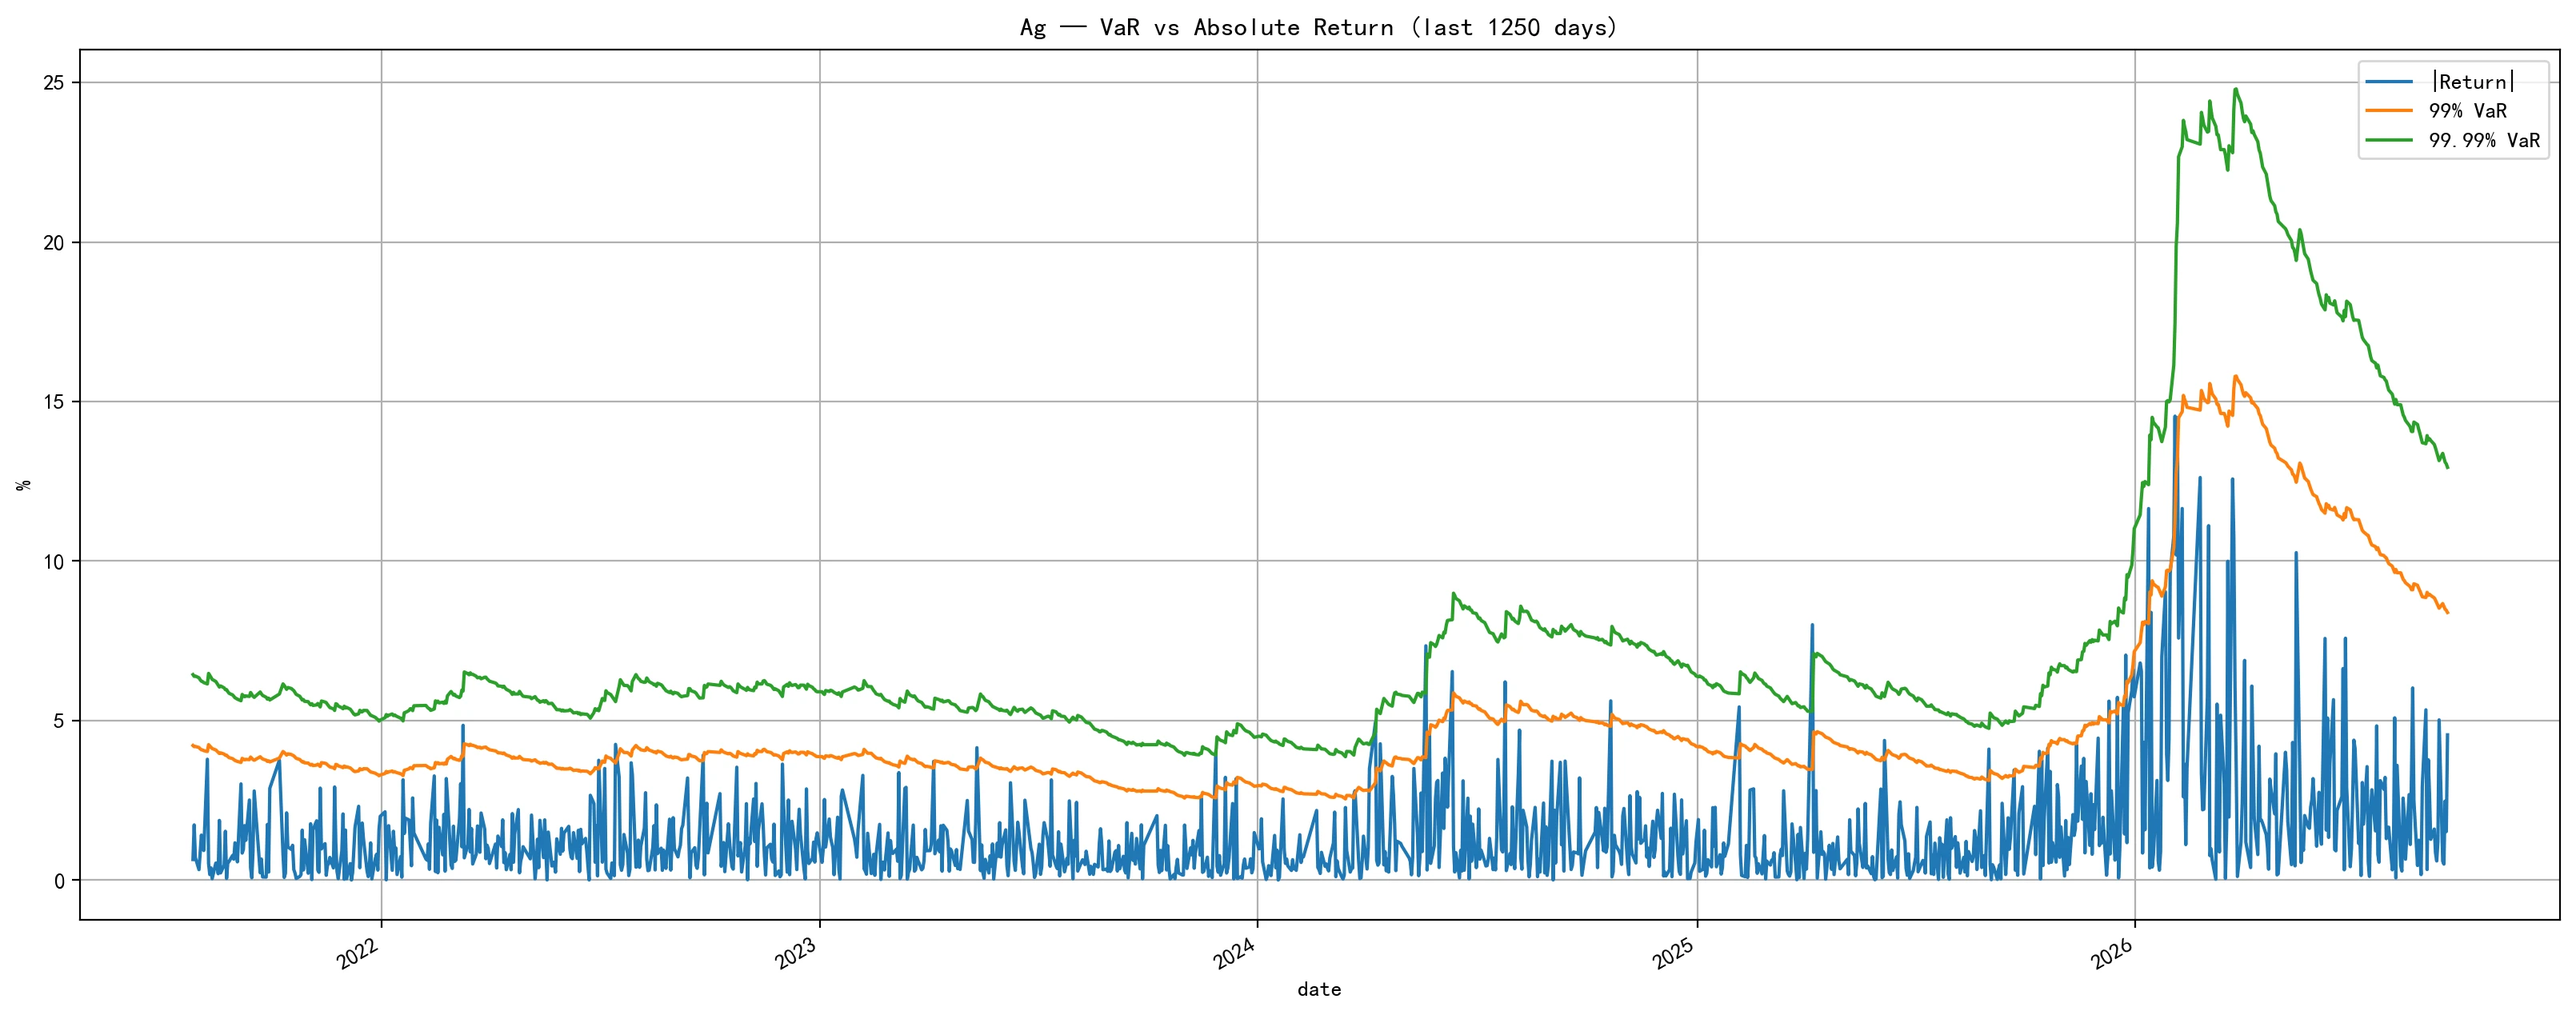
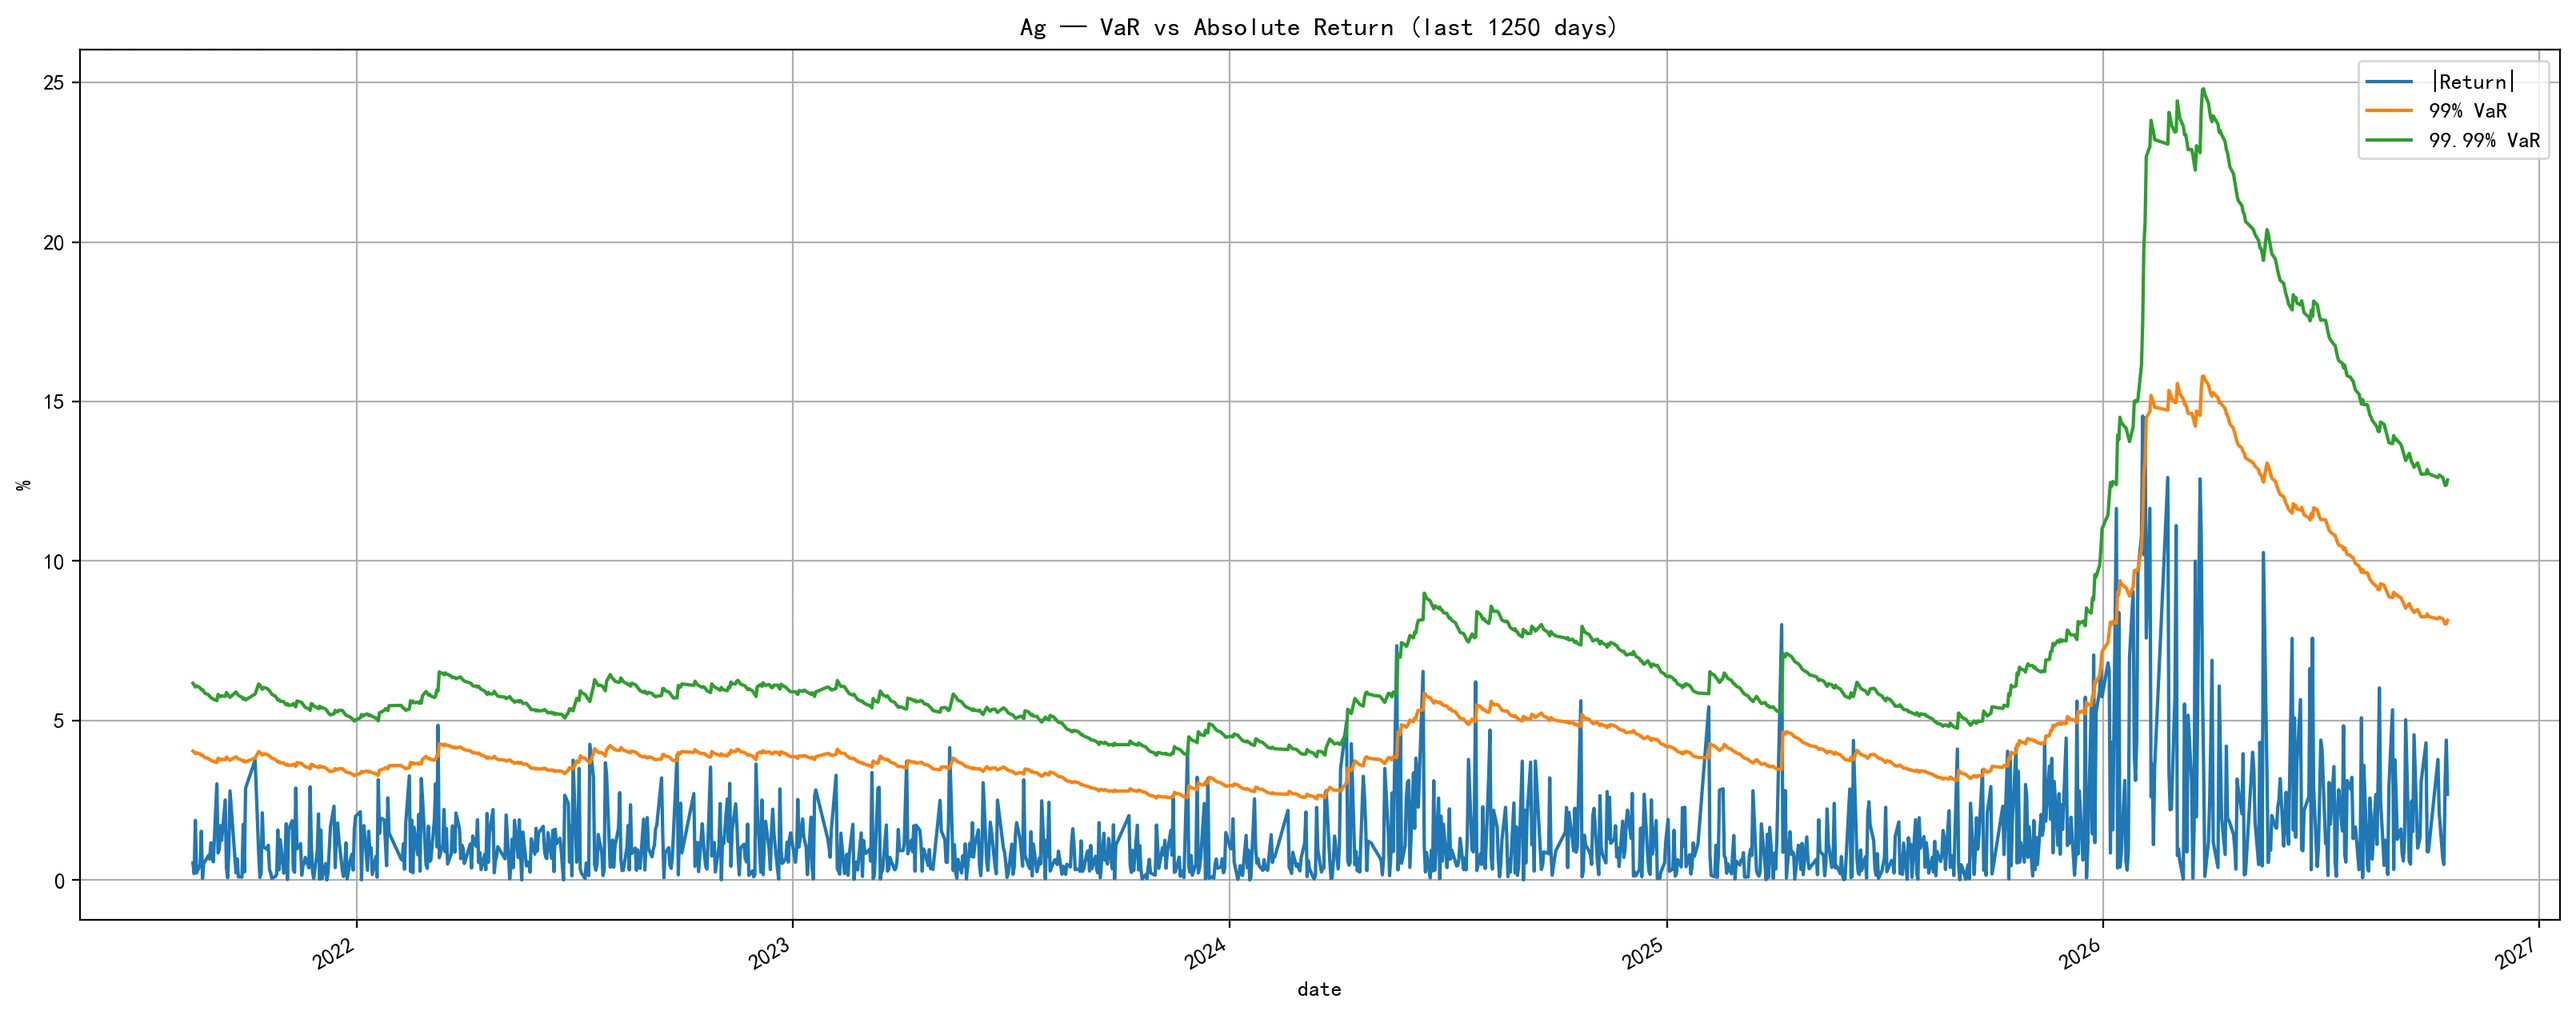
chore: sync margin model page to 2026-10-16 data
Refresh VaR margin model charts and backtest table: 8066 trading days, Au/Ag ranges extended to 2026-10-16.

diff --git a/project-margin-model.html b/project-margin-model.html
@@ -94,7 +94,7 @@
           <div class="stat-label"><span data-lang="cn">VaR 置信水平</span><span data-lang="en">VaR Levels</span></div>
         </div>
         <div class="stat-card">
-          <div class="stat-number">~8,038</div>
+          <div class="stat-number">~8,066</div>
           <div class="stat-label"><span data-lang="cn">总交易日数据</span><span data-lang="en">Total Trading Days</span></div>
         </div>
         <div class="stat-card">
@@ -165,11 +165,11 @@
       <div class="gallery" style="grid-template-columns: repeat(auto-fit, minmax(400px, 1fr))">
         <div class="gallery-item fade-in">
           <picture><source srcset="assets/plots/margin_model_Au.webp" type="image/webp"><img src="assets/plots/margin_model_Au.png" alt="Au Backtest" width="3220" height="1269" loading="lazy" decoding="async"></picture>
-          <div class="gallery-caption"><span data-lang="cn">黄金 (Au) — 2008-01-09 ~ 2026-09-18</span><span data-lang="en">Gold (Au) — 2008-01-09 ~ 2026-09-18</span></div>
+          <div class="gallery-caption"><span data-lang="cn">黄金 (Au) — 2008-01-09 ~ 2026-10-16</span><span data-lang="en">Gold (Au) — 2008-01-09 ~ 2026-10-16</span></div>
         </div>
         <div class="gallery-item fade-in">
           <picture><source srcset="assets/plots/margin_model_Ag.webp" type="image/webp"><img src="assets/plots/margin_model_Ag.png" alt="Ag Backtest" width="3220" height="1269" loading="lazy" decoding="async"></picture>
-          <div class="gallery-caption"><span data-lang="cn">白银 (Ag) — 2012-05-10 ~ 2026-09-18</span><span data-lang="en">Silver (Ag) — 2012-05-10 ~ 2026-09-18</span></div>
+          <div class="gallery-caption"><span data-lang="cn">白银 (Ag) — 2012-05-10 ~ 2026-10-16</span><span data-lang="en">Silver (Ag) — 2012-05-10 ~ 2026-10-16</span></div>
         </div>
       </div>
     </div>
@@ -197,15 +197,15 @@
               <td><strong>Au</strong></td>
               <td><span data-lang="cn">方法一（含阈值）</span><span data-lang="en">Method 1 (w/ threshold)</span></td>
               <td>87</td>
-              <td>4,316</td>
-              <td>2.02%</td>
+              <td>4,330</td>
+              <td>2.01%</td>
               <td>8</td>
             </tr>
             <tr>
               <td><strong>Au</strong></td>
               <td><span data-lang="cn">方法二（η=1.8）</span><span data-lang="en">Method 2 (η=1.8)</span></td>
               <td>39</td>
-              <td>4,316</td>
+              <td>4,330</td>
               <td>0.90%</td>
               <td>5</td>
             </tr>
@@ -213,16 +213,16 @@
               <td><strong>Ag</strong></td>
               <td><span data-lang="cn">方法一（含阈值）</span><span data-lang="en">Method 1 (w/ threshold)</span></td>
               <td>57</td>
-              <td>3,264</td>
-              <td>1.75%</td>
+              <td>3,278</td>
+              <td>1.74%</td>
               <td>9</td>
             </tr>
             <tr>
               <td><strong>Ag</strong></td>
               <td><span data-lang="cn">方法二（η=1.8）</span><span data-lang="en">Method 2 (η=1.8)</span></td>
               <td>27</td>
-              <td>3,264</td>
-              <td>0.83%</td>
+              <td>3,278</td>
+              <td>0.82%</td>
               <td>1</td>
             </tr>
           </tbody>
